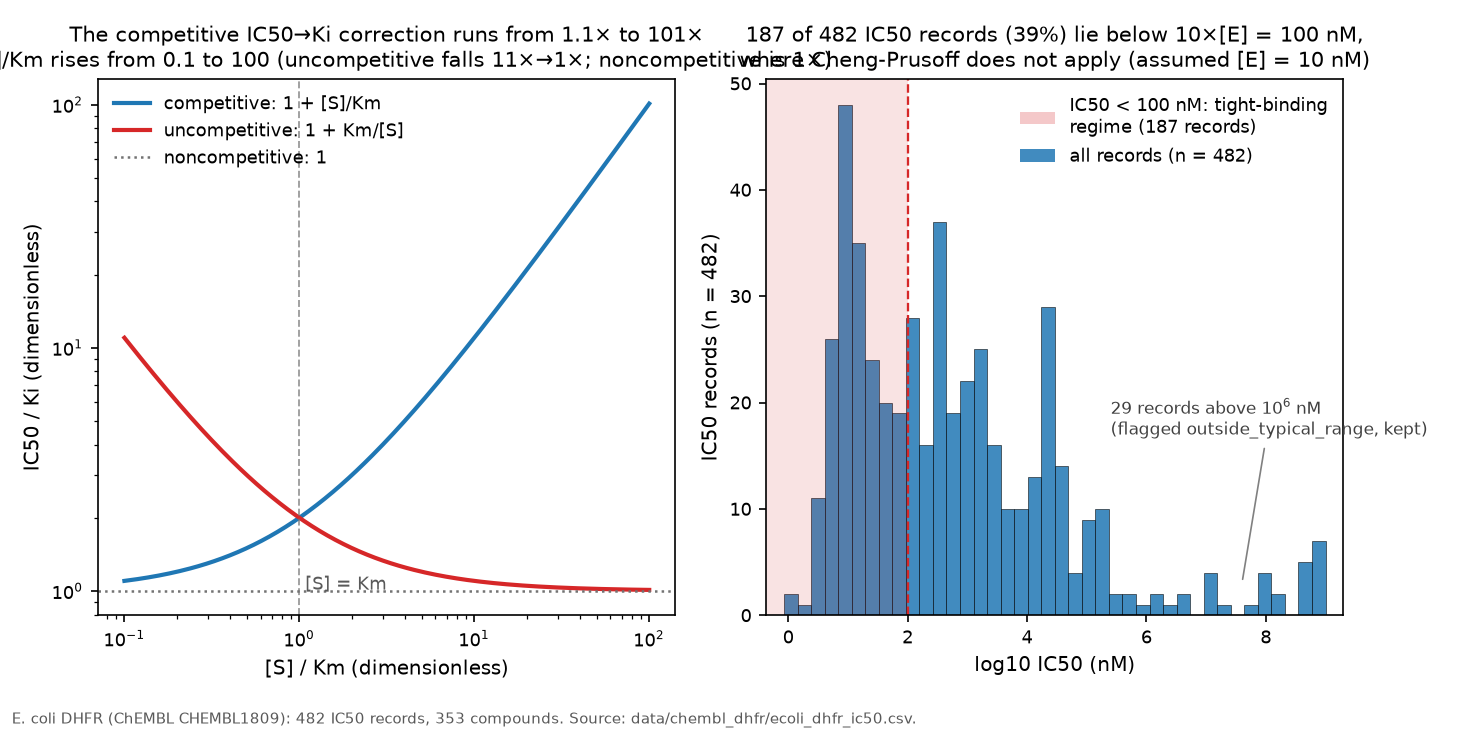
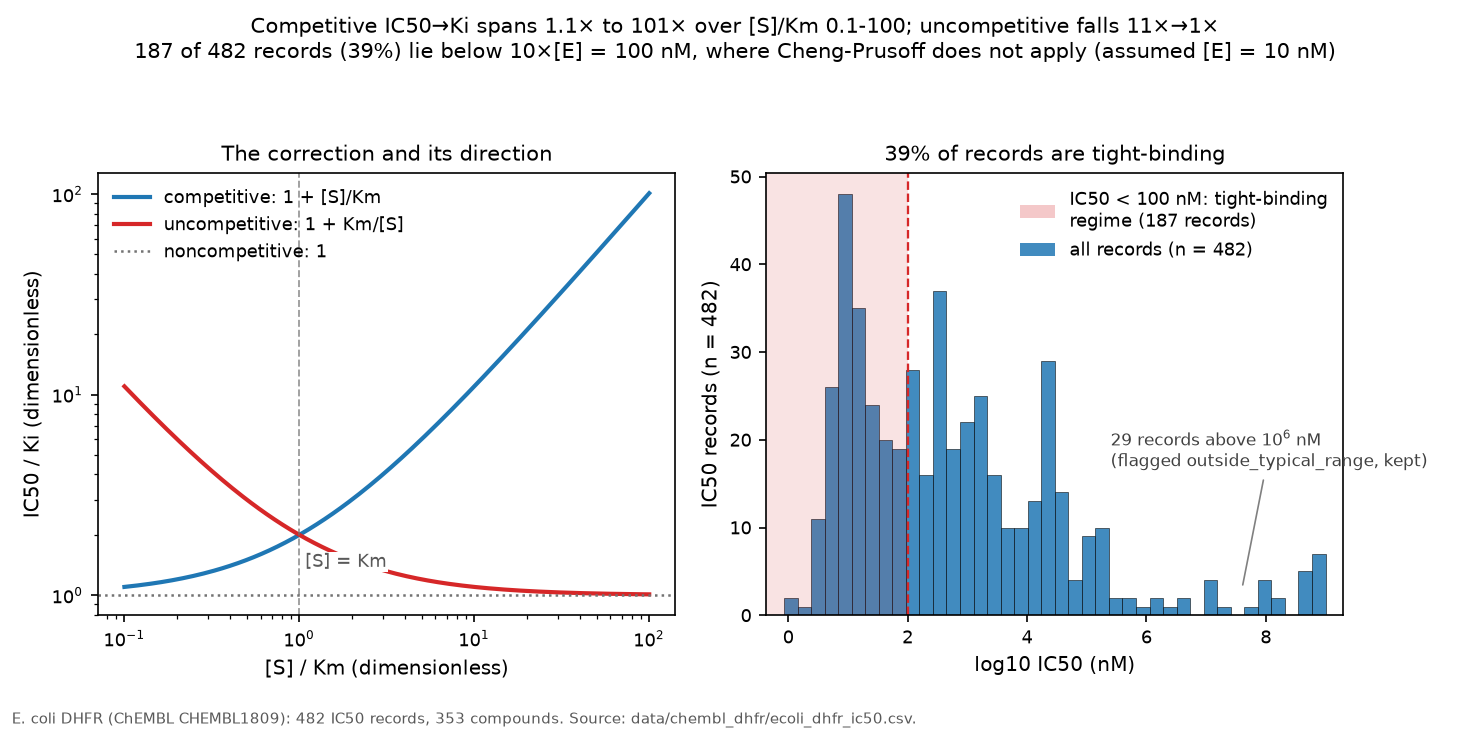
Stop the IC50 panel titles from overlapping and being clipped
Both panels carried three-line titles that were wider than their half of the
canvas: the left title was cut off at the left image edge (".../Km rises from 0.1
to 100...") and its tail ran into the right panel's title, so that region was
illegible. Each panel now has a short one-line title and the detail moved to a
two-line suptitle, which is wrapped rather than a single over-wide line (the first
attempt at the suptitle was itself clipped at both edges).

qsar_tail: the two-line suptitle was wider than the canvas and clipped at both
ends, cutting off the numbers the panel exists to show. It is now three short
lines, and the 0.873 / 0.556 annotations carry an opaque mask so the series line
they label no longer strikes through them. "[S] = Km" also clears the axis
furniture.

Verified: check_figures.py reports no layout change (dimensions unchanged), and
the figure command regenerates both from committed artefacts.

diff --git a/scripts/make_figures.py b/scripts/make_figures.py
@@ -420,9 +420,13 @@ def fig_qsar_tail():
             ax.plot(x, [rows[c]["single"] for c in CUTOFFS], "--s", color=colour, lw=1.2,
                     ms=4.5, alpha=0.75, markeredgecolor="black", markeredgewidth=0.4,
                     zorder=2)
+            # Masked: the offset put these digits on the series' own line, so
+            # "0.873" and "0.556" were struck through by the curve they label.
             ax.annotate(_fmt(rows[100.0]["r2"], 3), (x[-1], rows[100.0]["r2"]),
-                        xytext=(-9, 0), textcoords="offset points", ha="right", va="center",
-                        fontsize=FS_NOTE + 0.5, fontweight="bold", color=colour)
+                        xytext=(-10, 0), textcoords="offset points", ha="right", va="center",
+                        fontsize=FS_NOTE + 0.5, fontweight="bold", color=colour,
+                        bbox=dict(facecolor="white", edgecolor="none", pad=0.8),
+                        zorder=6)
         n96 = [sweep[(SERIES[0][0], subset)][c]["n"] for c in CUTOFFS]
         n88 = [sweep[(SERIES[1][0], subset)][c]["n"] for c in CUTOFFS]
         ax.set_xticks(x)
@@ -450,10 +454,12 @@ def fig_qsar_tail():
     # so "survives" without that clause reads as a win for the descriptor model
     # when the tail sweep actually says the opposite. Both numbers are in the
     # title now.
-    fig.suptitle("At the drug-relevant 100 nM cutoff, whole series: the 1996 QSAR "
-                 f"fit collapses (LOO R\u00b2 {_fmt(r96, 3)}), and the 1988 signal "
-                 f"survives ({r88:.3f})\nbut slightly BELOW one descriptor there "
-                 f"({b88:.3f}) - the ten descriptors add nothing at that cutoff",
+    # Three short lines instead of two long ones: the two-line version was wider
+    # than the canvas and clipped at both ends, which cut off the numbers that are
+    # the entire point of the panel.
+    fig.suptitle("At the 100 nM cutoff, whole series\n"
+                 f"1996 QSAR collapses (LOO R\u00b2 {_fmt(r96, 3)}); 1988 survives "
+                 f"({r88:.3f})\nbut is BELOW one descriptor there ({b88:.3f})",
                  fontsize=FS_SUPTITLE)
     _finish(fig, "Compounds with Ki above the cutoff are dropped and the whole pipeline is "
                  "refitted, permutation null included. Source: results/qsar_tail_sweep.csv "
@@ -811,17 +817,19 @@ def fig_ic50_conversion():
             color="C3", label="uncompetitive: 1 + Km/[S]")
     ax.axhline(1.0, ls=":", color=GREY, lw=1.2, label="noncompetitive: 1")
     ax.axvline(1.0, ls="--", color=GREY, lw=0.9, alpha=0.7)
-    ax.text(1.08, 0.04, "[S] = Km", transform=ax.get_xaxis_transform(), fontsize=FS_NOTE,
-            color="0.35", va="bottom")
+    ax.text(1.08, 0.10, "[S] = Km", transform=ax.get_xaxis_transform(), fontsize=FS_NOTE,
+            color="0.35", va="bottom",
+            bbox=dict(facecolor="white", edgecolor="none", pad=0.6))
     ax.set_xscale("log")
     ax.set_yscale("log")
     ax.set_xlabel("[S] / Km (dimensionless)")
     ax.set_ylabel("IC50 / Ki (dimensionless)")
     lo_f = cp.correction_factor(0.1, 1.0, "competitive")
     hi_f = cp.correction_factor(100.0, 1.0, "competitive")
-    ax.set_title(f"The competitive IC50\u2192Ki correction runs from {lo_f:.1f}\u00d7 to "
-                 f"{hi_f:.0f}\u00d7\nas [S]/Km rises from 0.1 to 100 "
-                 "(uncompetitive falls 11\u00d7\u21921\u00d7; noncompetitive is 1\u00d7)")
+    # One short line. The three-line version was wider than its half of the
+    # canvas: it was clipped at the left image edge and ran into the right panel's
+    # title, making both unreadable. The detail lives in the suptitle below.
+    ax.set_title("The correction and its direction", fontsize=FS_TITLE)
     ax.legend(loc="upper left", fontsize=FS_NOTE, frameon=False)
 
     ax = axes[1]
@@ -832,9 +840,8 @@ def fig_ic50_conversion():
     ax.set_xlim(logs.min() - 0.3, logs.max() + 0.3)
     ax.set_xlabel("log10 IC50 (nM)")
     ax.set_ylabel(f"IC50 records (n = {len(ics)})")
-    ax.set_title(f"{n_tight} of {len(ics)} IC50 records ({100 * n_tight / len(ics):.0f}%) lie "
-                 f"below 10\u00d7[E] = {thr:g} nM,\nwhere Cheng-Prusoff does not apply "
-                 f"(assumed [E] = {enzyme_nm:g} nM)")
+    ax.set_title(f"{100 * n_tight / len(ics):.0f}% of records are tight-binding",
+                 fontsize=FS_TITLE)
     handles = [Patch(facecolor="C3", alpha=0.25,
                      label=f"IC50 < {thr:g} nM: tight-binding\nregime ({n_tight} records)"),
                Patch(facecolor="C0", alpha=0.85, label=f"all records (n = {len(ics)})")]
@@ -842,6 +849,14 @@ def fig_ic50_conversion():
     ax.annotate(f"{n_high} records above 10$^6$ nM\n(flagged outside_typical_range, kept)",
                 xy=(7.6, 3), xytext=(5.4, 17), fontsize=FS_NOTE - 0.5, color="0.25", ha="left",
                 arrowprops=dict(arrowstyle="-", color="0.5", lw=0.8))
+    # Two short lines, not one long one. The single-line version was wider than the
+    # canvas and clipped at BOTH edges (a vision pass read "o 101x as [S]/Km" on the
+    # left), which is the same failure the panel titles had before this commit.
+    fig.suptitle(f"Competitive IC50\u2192Ki spans {lo_f:.1f}\u00d7 to {hi_f:.0f}\u00d7 "
+                 f"over [S]/Km 0.1-100; uncompetitive falls 11\u00d7\u21921\u00d7\n"
+                 f"{n_tight} of {len(ics)} records ({100 * n_tight / len(ics):.0f}%) lie below "
+                 f"10\u00d7[E] = {thr:g} nM, where Cheng-Prusoff does not apply "
+                 f"(assumed [E] = {enzyme_nm:g} nM)", fontsize=FS_TITLE)
     _finish(fig, f"E. coli DHFR (ChEMBL {datasets.CHEMBL_DHFR_TARGET}): {len(ics)} IC50 records, "
                  f"{len({r['molecule_chembl_id'] for r in table})} compounds. "
                  "Source: data/chembl_dhfr/ecoli_dhfr_ic50.csv.")
